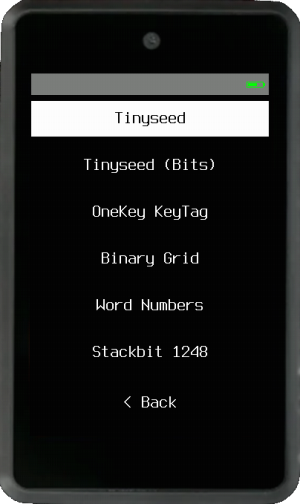
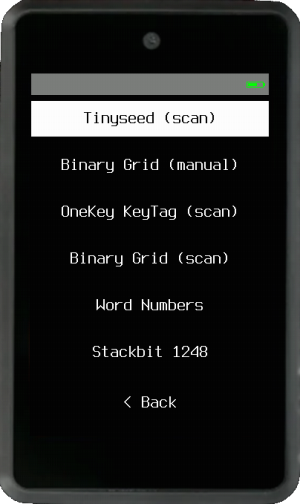
docs: update mnemonic format labels

diff --git a/docs/getting-started/usage/loading-a-mnemonic.en.md b/docs/getting-started/usage/loading-a-mnemonic.en.md
@@ -43,17 +43,17 @@ Retrieve an [encrypted mnemonic previously stored](./navigating-the-main-menu.md
 <img src="../../../img/maixpy_m5stickv/load-mnemonic-other-formats-250.png" align="right" class="m5stickv">
 <img src="../../../img/maixpy_amigo/load-mnemonic-other-formats-300.png" align="right" class="amigo">
 
-Specialist backup formats are grouped in one menu: `Tinyseed`, `Tinyseed (Bits)`, `OneKey KeyTag`, `Binary Grid`, `Word Numbers`, and `Stackbit 1248`.
+Specialist backup formats are grouped in one menu: `Tinyseed (scan)`, `Binary Grid (manual)`, `OneKey KeyTag (scan)`, `Binary Grid (scan)`, `Word Numbers`, and `Stackbit 1248`.
 
 <div style="clear: both"></div>
 
-#### Tinyseed
+#### Tinyseed (scan)
 
 [Tinyseed](https://tinyseed.io/) directly encodes a seed as binary on a compact backup plate. Krux can scan a completed Tinyseed with its camera. This feature is not available in the [Krux Mobile Android app](../../faq.md#what-is-krux-mobile-android-app).
 
 Place the backup over a black background and fill punched areas with black to improve contrast. You can also scan a [thermally printed version](../features/printing/printing.md) or a completed template. See the [encoded examples](../features/tinyseed.md) and [transcription templates](../templates/index.md).
 
-#### Tinyseed (Bits)
+#### Binary Grid (manual)
 
 <img src="../../../img/maixpy_m5stickv/load-mnemonic-via-tinyseed-filled-250.png" align="right" class="m5stickv">
 <img src="../../../img/maixpy_amigo/load-mnemonic-via-tinyseed-filled-300.png" align="right" class="amigo">
@@ -67,11 +67,11 @@ Enter each BIP39 word number (1-2048) in binary by toggling its bits. Krux calcu
 
 <div style="clear: both"></div>
 
-#### OneKey KeyTag
+#### OneKey KeyTag (scan)
 
 [OneKey KeyTag](https://onekey.so/products/onekey-keytag/) also stores a seed as a compact binary pattern. Use the camera to scan the completed plate.
 
-#### Binary Grid
+#### Binary Grid (scan)
 
 Use the camera to scan another supported binary-grid backup or a completed
 transcription template.
